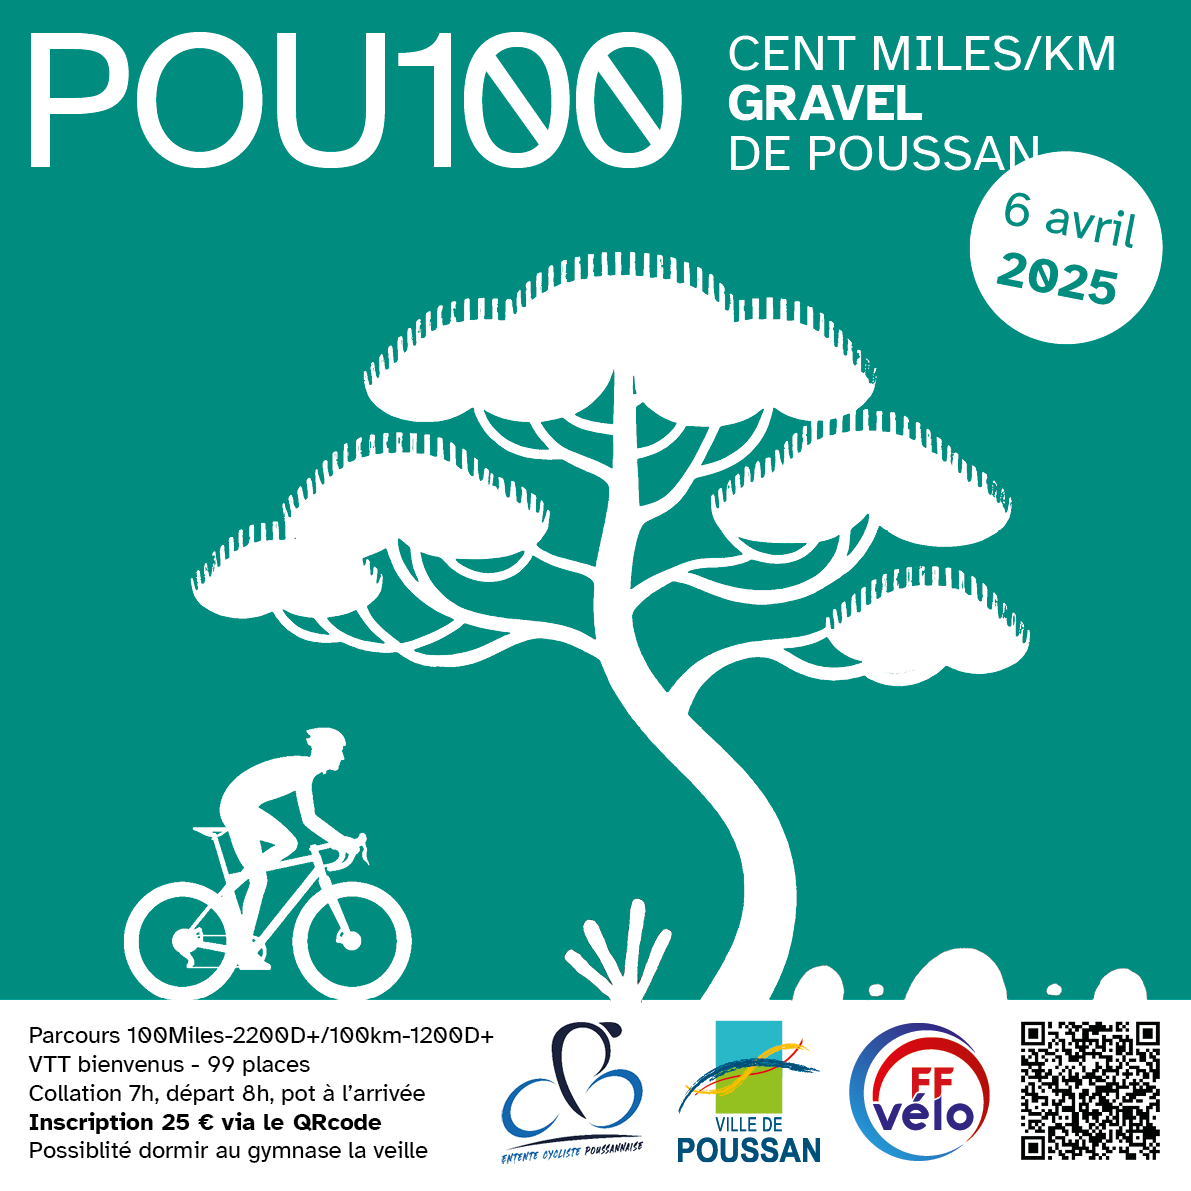
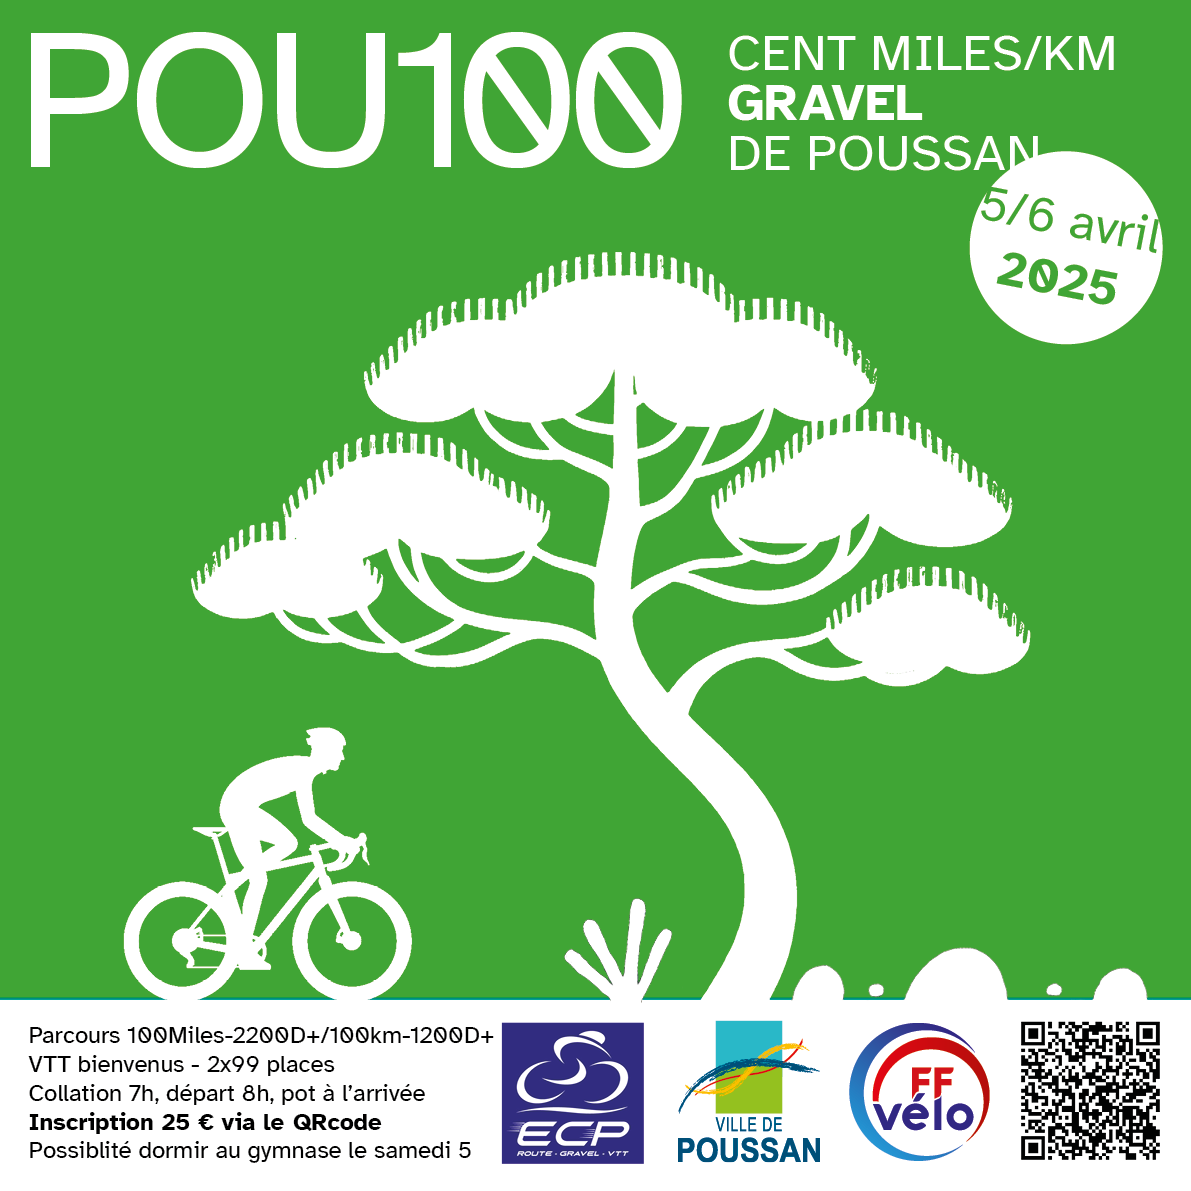
pou100

diff --git a/pages/pou100.md b/pages/pou100.md
@@ -19,11 +19,11 @@ r_single: "8 %"
 
 ---
 
-100 miles, une distance mythique (et 100 km aussi). Rien de tel pour attaquer le printemps et célébrer l'heure d'été, avec une randonnée qui s'étirera du lever au coucher du soleil. L'ECP sera heureuse de vous accueillir à Poussan le 6 avril 2025 à partir de 7h. Nous vous offriront une collation avant le départ qui sera donné à entre 7h45 et 8h15. Un verre vous sera offert au retour. Les randonnées ne seront pas balisées et s'effectueront en totale autonomie avec suivi GPX.
+100 miles, une distance mythique (et 100 km aussi). Rien de tel pour attaquer le printemps et célébrer l'heure d'été, avec une randonnée qui s'étirera du lever au coucher du soleil. L'ECP sera heureuse de vous accueillir à Poussan les 5 et 6 avril 2025 à partir de 7h. Le samedi comme le dimanche matin, nous vous offriront une collation avant le départ qui sera donné à entre 7h45 et 8h15. Un verre vous sera offert au retour. Les randonnées ne seront pas balisées et s'effectueront en totale autonomie avec suivi GPX.
 
 Organisée avec la même philosophie que les 727, POU100 n'est pas une compétition, mais une randonnée, où la fraternité, la bienveillance et la coopération sont les bienvenus. Le but est de profiter des paysages, des chemins, des compagnons de route ainsi que des innombrables merveilles culturelles et géologiques de la région. Chacun roulera à son rythme.
 
-<p><a href="https://www.helloasso.com/associations/ec-poussan/evenements/100-miles-gravel-de-poussan" class="hotlink">Inscrivez-vous au POU100 2025 sur helloasso (25 €) >>></a> (Sold out)</p>
+<p><a href="https://www.helloasso.com/associations/ec-poussan/evenements/100-miles-gravel-de-poussan" class="hotlink">Inscrivez-vous au POU100 2025 sur helloasso (25 €) >>></a> (le dimanche est sold out)</p>
 
 ![POU100 l'affiche](/images/pou100/100m.png)
 
